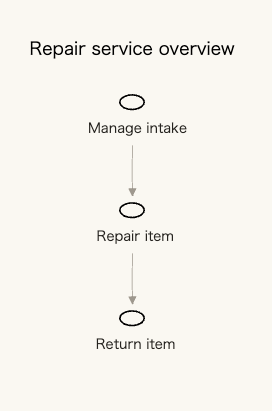
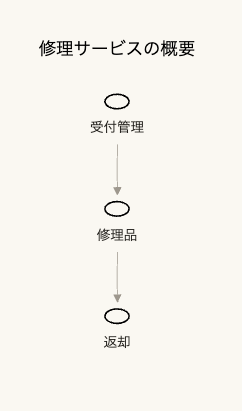
fix: localize diagram labels and label backgrounds

diff --git a/.agents/skills/mermaid-diagram-authoring/scripts/check_business_flow.py b/.agents/skills/mermaid-diagram-authoring/scripts/check_business_flow.py
@@ -29,8 +29,10 @@ CLASS_DEF_RE = re.compile(
 )
 
 CANONICAL_THEME_CSS = (
-    'themeCSS: ".image-shape p { padding: 0 !important; } '
+    'themeCSS: ".image-shape p { padding: 0 !important; background-color:#FAF8F2 !important; } '
     '.image-shape foreignObject { overflow: visible; } '
+    '.image-shape .labelBkg { background-color:#FAF8F2 !important; } '
+    '.image-shape .label rect { fill:#FAF8F2 !important; opacity:1 !important; } '
     ".image-shape[id*='-flowchart-b_'] .label p { transform: translateY(-6px); }\""
 )
 CANONICAL_LINK_STYLE = (

diff --git a/.agents/skills/mermaid-diagram-authoring/scripts/check_context_diagram.py b/.agents/skills/mermaid-diagram-authoring/scripts/check_context_diagram.py
@@ -36,8 +36,10 @@ CLASS_DEF_RE = re.compile(
 )
 
 CANONICAL_THEME_CSS = (
-    'themeCSS: ".image-shape p { padding: 0 !important; } '
+    'themeCSS: ".image-shape p { padding: 0 !important; background-color:#FAF8F2 !important; } '
     '.image-shape foreignObject { overflow: visible; } '
+    '.image-shape .labelBkg { background-color:#FAF8F2 !important; } '
+    '.image-shape .label rect { fill:#FAF8F2 !important; opacity:1 !important; } '
     ".image-shape[id*='-flowchart-b_'] .label p { transform: translateY(-6px); }\""
 )
 CANONICAL_LINK_STYLE = (

diff --git a/examples/repair-intake/context.md b/examples/repair-intake/context.md
@@ -4,7 +4,7 @@ Working view of the actors, information, and outside service around repair intak
 
 ```mermaid
 ---
-title: Repair intake context
+title: 修理受付のコンテキスト
 config:
   layout: dagre
   theme: neutral
@@ -20,14 +20,14 @@ config:
     lineColor: "#8A847A"
     fontFamily: "Inter, Hiragino Sans, sans-serif"
     fontSize: "14px"
-  themeCSS: ".image-shape p { padding: 0 !important; } .image-shape foreignObject { overflow: visible; } .image-shape[id*='-flowchart-b_'] .label p { transform: translateY(-6px); }"
+  themeCSS: ".image-shape p { padding: 0 !important; background-color:#FAF8F2 !important; } .image-shape foreignObject { overflow: visible; } .image-shape .labelBkg { background-color:#FAF8F2 !important; } .image-shape .label rect { fill:#FAF8F2 !important; opacity:1 !important; } .image-shape[id*='-flowchart-b_'] .label p { transform: translateY(-6px); }"
 ---
 flowchart TB
-  a_customer@{ img: "https://raw.githubusercontent.com/maakbo/fde/main/assets/icons/lucide-thin/user.svg", label: "Customer", pos: "b", w: 38, h: 38, constraint: "on" }
-  b_receive_request@{ img: "https://raw.githubusercontent.com/maakbo/fde/main/assets/icons/lucide-thin/ellipse.svg", label: "Receive request", pos: "b", w: 30, h: 30, constraint: "on" }
-  i_repair_request@{ img: "https://raw.githubusercontent.com/maakbo/fde/main/assets/icons/lucide-thin/file.svg", label: "Repair request", pos: "b", w: 38, h: 38, constraint: "on" }
-  i_intake_record@{ img: "https://raw.githubusercontent.com/maakbo/fde/main/assets/icons/lucide-thin/file.svg", label: "Intake record", pos: "b", w: 38, h: 38, constraint: "on" }
-  x_scheduling_service@{ img: "https://raw.githubusercontent.com/maakbo/fde/main/assets/icons/lucide-thin/server.svg", label: "Scheduling", pos: "b", w: 38, h: 38, constraint: "on" }
+  a_customer@{ img: "https://raw.githubusercontent.com/maakbo/fde/main/assets/icons/lucide-thin/user.svg", label: "顧客", pos: "b", w: 38, h: 38, constraint: "on" }
+  b_receive_request@{ img: "https://raw.githubusercontent.com/maakbo/fde/main/assets/icons/lucide-thin/ellipse.svg", label: "依頼受付", pos: "b", w: 30, h: 30, constraint: "on" }
+  i_repair_request@{ img: "https://raw.githubusercontent.com/maakbo/fde/main/assets/icons/lucide-thin/file.svg", label: "修理依頼", pos: "b", w: 38, h: 38, constraint: "on" }
+  i_intake_record@{ img: "https://raw.githubusercontent.com/maakbo/fde/main/assets/icons/lucide-thin/file.svg", label: "受付記録", pos: "b", w: 38, h: 38, constraint: "on" }
+  x_scheduling_service@{ img: "https://raw.githubusercontent.com/maakbo/fde/main/assets/icons/lucide-thin/server.svg", label: "予約管理", pos: "b", w: 38, h: 38, constraint: "on" }
 
   a_customer --- b_receive_request
   i_repair_request --- b_receive_request
@@ -46,10 +46,10 @@ flowchart TB
   linkStyle default stroke:#9E988E,stroke-width:0.75px;
 ```
 
-## Reading
+## 読み方
 
-The customer, repair request, intake record, and scheduling service relate through receiving the repair request. The lines show business relationships, not time order.
+顧客、修理依頼、受付記録、予約管理が、依頼受付を中心につながっている。線は業務上の関係を示し、時間の順序は示さない。
 
-## Open question
+## 未解決の問い
 
-Does booking still belong inside the intake boundary?
+予約は、引き続き受付の境界内に置くか？

diff --git a/examples/repair-intake/flow.md b/examples/repair-intake/flow.md
@@ -4,7 +4,7 @@ Focused task flow for completeness checking and missing-detail rework.
 
 ```mermaid
 ---
-title: Repair intake flow
+title: 修理受付の業務フロー
 config:
   layout: dagre
   theme: neutral
@@ -22,17 +22,17 @@ config:
     edgeLabelBackground: "#FAF8F2"
     fontFamily: "Inter, Hiragino Sans, sans-serif"
     fontSize: "14px"
-  themeCSS: ".image-shape p { padding: 0 !important; } .image-shape foreignObject { overflow: visible; } .image-shape[id*='-flowchart-b_'] .label p { transform: translateY(-6px); }"
+  themeCSS: ".image-shape p { padding: 0 !important; background-color:#FAF8F2 !important; } .image-shape foreignObject { overflow: visible; } .image-shape .labelBkg { background-color:#FAF8F2 !important; } .image-shape .label rect { fill:#FAF8F2 !important; opacity:1 !important; } .image-shape[id*='-flowchart-b_'] .label p { transform: translateY(-6px); }"
 ---
 flowchart TB
-  b_receive_request@{ img: "https://raw.githubusercontent.com/maakbo/fde/main/assets/icons/lucide-thin/ellipse.svg", label: "Receive request", pos: "b", w: 30, h: 30, constraint: "on" }
-  d_information_complete@{ img: "https://raw.githubusercontent.com/maakbo/fde/main/assets/icons/lucide-thin/diamond.svg", label: "Complete?", pos: "b", w: 38, h: 38, constraint: "on" }
-  b_request_details@{ img: "https://raw.githubusercontent.com/maakbo/fde/main/assets/icons/lucide-thin/ellipse.svg", label: "Request details", pos: "b", w: 30, h: 30, constraint: "on" }
-  b_book_repair@{ img: "https://raw.githubusercontent.com/maakbo/fde/main/assets/icons/lucide-thin/ellipse.svg", label: "Book repair", pos: "b", w: 30, h: 30, constraint: "on" }
+  b_receive_request@{ img: "https://raw.githubusercontent.com/maakbo/fde/main/assets/icons/lucide-thin/ellipse.svg", label: "依頼受付", pos: "b", w: 30, h: 30, constraint: "on" }
+  d_information_complete@{ img: "https://raw.githubusercontent.com/maakbo/fde/main/assets/icons/lucide-thin/diamond.svg", label: "情報は揃った？", pos: "b", w: 38, h: 38, constraint: "on" }
+  b_request_details@{ img: "https://raw.githubusercontent.com/maakbo/fde/main/assets/icons/lucide-thin/ellipse.svg", label: "不足情報を確認", pos: "b", w: 30, h: 30, constraint: "on" }
+  b_book_repair@{ img: "https://raw.githubusercontent.com/maakbo/fde/main/assets/icons/lucide-thin/ellipse.svg", label: "修理予約", pos: "b", w: 30, h: 30, constraint: "on" }
 
   b_receive_request --> d_information_complete
-  d_information_complete -->|Complete| b_book_repair
-  d_information_complete -->|Missing| b_request_details
+  d_information_complete -->|揃っている| b_book_repair
+  d_information_complete -->|不足あり| b_request_details
   b_request_details --> d_information_complete
 
   class b_receive_request,b_request_details,b_book_repair activity;
@@ -43,10 +43,10 @@ flowchart TB
   linkStyle default stroke:#9E988E,stroke-width:0.75px,fill:none;
 ```
 
-## Reading
+## 読み方
 
-Receive the request, check completeness, request missing details and recheck when necessary, then book the repair.
+依頼を受け、情報が揃っているかを確認する。不足があれば確認し、揃ったら修理を予約する。
 
-## Open question
+## 未解決の問い
 
-Is completeness checking part of receiving, or a separate responsibility?
+情報の確認は受付の一部か、それとも別の担当か？

diff --git a/templates/icon-context.md b/templates/icon-context.md
@@ -4,7 +4,7 @@ Edit the Mermaid block directly and preview this Markdown file. Keep assumptions
 
 ```mermaid
 ---
-title: Business context
+title: 業務コンテキスト
 config:
   layout: dagre
   theme: neutral
@@ -20,14 +20,14 @@ config:
     lineColor: "#8A847A"
     fontFamily: "Inter, Hiragino Sans, sans-serif"
     fontSize: "14px"
-  themeCSS: ".image-shape p { padding: 0 !important; } .image-shape foreignObject { overflow: visible; } .image-shape[id*='-flowchart-b_'] .label p { transform: translateY(-6px); }"
+  themeCSS: ".image-shape p { padding: 0 !important; background-color:#FAF8F2 !important; } .image-shape foreignObject { overflow: visible; } .image-shape .labelBkg { background-color:#FAF8F2 !important; } .image-shape .label rect { fill:#FAF8F2 !important; opacity:1 !important; } .image-shape[id*='-flowchart-b_'] .label p { transform: translateY(-6px); }"
 ---
 flowchart TB
-  a_requester@{ img: "https://raw.githubusercontent.com/maakbo/fde/main/assets/icons/lucide-thin/user.svg", label: "Requester", pos: "b", w: 38, h: 38, constraint: "on" }
-  b_receive@{ img: "https://raw.githubusercontent.com/maakbo/fde/main/assets/icons/lucide-thin/ellipse.svg", label: "Receive request", pos: "b", w: 30, h: 30, constraint: "on" }
-  i_request@{ img: "https://raw.githubusercontent.com/maakbo/fde/main/assets/icons/lucide-thin/file.svg", label: "Request", pos: "b", w: 38, h: 38, constraint: "on" }
-  i_record@{ img: "https://raw.githubusercontent.com/maakbo/fde/main/assets/icons/lucide-thin/file.svg", label: "Intake record", pos: "b", w: 38, h: 38, constraint: "on" }
-  x_service@{ img: "https://raw.githubusercontent.com/maakbo/fde/main/assets/icons/lucide-thin/server.svg", label: "External service", pos: "b", w: 38, h: 38, constraint: "on" }
+  a_requester@{ img: "https://raw.githubusercontent.com/maakbo/fde/main/assets/icons/lucide-thin/user.svg", label: "依頼者", pos: "b", w: 38, h: 38, constraint: "on" }
+  b_receive@{ img: "https://raw.githubusercontent.com/maakbo/fde/main/assets/icons/lucide-thin/ellipse.svg", label: "依頼受付", pos: "b", w: 30, h: 30, constraint: "on" }
+  i_request@{ img: "https://raw.githubusercontent.com/maakbo/fde/main/assets/icons/lucide-thin/file.svg", label: "依頼内容", pos: "b", w: 38, h: 38, constraint: "on" }
+  i_record@{ img: "https://raw.githubusercontent.com/maakbo/fde/main/assets/icons/lucide-thin/file.svg", label: "受付記録", pos: "b", w: 38, h: 38, constraint: "on" }
+  x_service@{ img: "https://raw.githubusercontent.com/maakbo/fde/main/assets/icons/lucide-thin/server.svg", label: "外部サービス", pos: "b", w: 38, h: 38, constraint: "on" }
 
   a_requester --- b_receive
   i_request --- b_receive
@@ -46,6 +46,6 @@ flowchart TB
   linkStyle default stroke:#9E988E,stroke-width:0.75px;
 ```
 
-## Open question
+## 未解決の問い
 
-What boundary, grain, classification, or relationship should the group examine next?
+次に、どの境界・粒度・分類・関係性を検討するか？

diff --git a/templates/business-flow.md b/templates/business-flow.md
@@ -4,7 +4,7 @@ Edit the Mermaid block directly and preview this Markdown file. Record unresolve
 
 ```mermaid
 ---
-title: Business flow
+title: 業務フロー
 config:
   layout: dagre
   theme: neutral
@@ -22,18 +22,18 @@ config:
     edgeLabelBackground: "#FAF8F2"
     fontFamily: "Inter, Hiragino Sans, sans-serif"
     fontSize: "14px"
-  themeCSS: ".image-shape p { padding: 0 !important; } .image-shape foreignObject { overflow: visible; } .image-shape[id*='-flowchart-b_'] .label p { transform: translateY(-6px); }"
+  themeCSS: ".image-shape p { padding: 0 !important; background-color:#FAF8F2 !important; } .image-shape foreignObject { overflow: visible; } .image-shape .labelBkg { background-color:#FAF8F2 !important; } .image-shape .label rect { fill:#FAF8F2 !important; opacity:1 !important; } .image-shape[id*='-flowchart-b_'] .label p { transform: translateY(-6px); }"
 ---
 flowchart TB
-  b_receive@{ img: "https://raw.githubusercontent.com/maakbo/fde/main/assets/icons/lucide-thin/ellipse.svg", label: "Receive", pos: "b", w: 30, h: 30, constraint: "on" }
-  d_complete@{ img: "https://raw.githubusercontent.com/maakbo/fde/main/assets/icons/lucide-thin/diamond.svg", label: "Complete?", pos: "b", w: 38, h: 38, constraint: "on" }
-  b_create@{ img: "https://raw.githubusercontent.com/maakbo/fde/main/assets/icons/lucide-thin/ellipse.svg", label: "Create", pos: "b", w: 30, h: 30, constraint: "on" }
-  b_review@{ img: "https://raw.githubusercontent.com/maakbo/fde/main/assets/icons/lucide-thin/ellipse.svg", label: "Review", pos: "b", w: 30, h: 30, constraint: "on" }
+  b_receive@{ img: "https://raw.githubusercontent.com/maakbo/fde/main/assets/icons/lucide-thin/ellipse.svg", label: "受付", pos: "b", w: 30, h: 30, constraint: "on" }
+  d_complete@{ img: "https://raw.githubusercontent.com/maakbo/fde/main/assets/icons/lucide-thin/diamond.svg", label: "情報は揃った？", pos: "b", w: 38, h: 38, constraint: "on" }
+  b_create@{ img: "https://raw.githubusercontent.com/maakbo/fde/main/assets/icons/lucide-thin/ellipse.svg", label: "作成", pos: "b", w: 30, h: 30, constraint: "on" }
+  b_review@{ img: "https://raw.githubusercontent.com/maakbo/fde/main/assets/icons/lucide-thin/ellipse.svg", label: "確認", pos: "b", w: 30, h: 30, constraint: "on" }
 
   b_receive --> d_complete
-  d_complete -->|Yes| b_create
+  d_complete -->|揃っている| b_create
   b_create --> b_review
-  d_complete -->|No| b_receive
+  d_complete -->|不足あり| b_receive
 
   class b_receive,b_create,b_review activity;
   class d_complete decision;
@@ -43,6 +43,6 @@ flowchart TB
   linkStyle default stroke:#9E988E,stroke-width:0.75px,fill:none;
 ```
 
-## Open question
+## 未解決の問い
 
-Which activity, decision, or return route could change the shared understanding?
+どの業務・判断・戻り道が、共有認識を変えそうか？

diff --git a/examples/repair-intake/overview.md b/examples/repair-intake/overview.md
@@ -4,7 +4,7 @@ One-level-higher view connecting intake, repair, and return.
 
 ```mermaid
 ---
-title: Repair service overview
+title: 修理サービスの概要
 config:
   layout: dagre
   theme: neutral
@@ -22,12 +22,12 @@ config:
     edgeLabelBackground: "#FAF8F2"
     fontFamily: "Inter, Hiragino Sans, sans-serif"
     fontSize: "14px"
-  themeCSS: ".image-shape p { padding: 0 !important; } .image-shape foreignObject { overflow: visible; } .image-shape[id*='-flowchart-b_'] .label p { transform: translateY(-6px); }"
+  themeCSS: ".image-shape p { padding: 0 !important; background-color:#FAF8F2 !important; } .image-shape foreignObject { overflow: visible; } .image-shape .labelBkg { background-color:#FAF8F2 !important; } .image-shape .label rect { fill:#FAF8F2 !important; opacity:1 !important; } .image-shape[id*='-flowchart-b_'] .label p { transform: translateY(-6px); }"
 ---
 flowchart TB
-  b_manage_intake@{ img: "https://raw.githubusercontent.com/maakbo/fde/main/assets/icons/lucide-thin/ellipse.svg", label: "Manage intake", pos: "b", w: 30, h: 30, constraint: "on" }
-  b_repair_item@{ img: "https://raw.githubusercontent.com/maakbo/fde/main/assets/icons/lucide-thin/ellipse.svg", label: "Repair item", pos: "b", w: 30, h: 30, constraint: "on" }
-  b_return_item@{ img: "https://raw.githubusercontent.com/maakbo/fde/main/assets/icons/lucide-thin/ellipse.svg", label: "Return item", pos: "b", w: 30, h: 30, constraint: "on" }
+  b_manage_intake@{ img: "https://raw.githubusercontent.com/maakbo/fde/main/assets/icons/lucide-thin/ellipse.svg", label: "受付管理", pos: "b", w: 30, h: 30, constraint: "on" }
+  b_repair_item@{ img: "https://raw.githubusercontent.com/maakbo/fde/main/assets/icons/lucide-thin/ellipse.svg", label: "修理品", pos: "b", w: 30, h: 30, constraint: "on" }
+  b_return_item@{ img: "https://raw.githubusercontent.com/maakbo/fde/main/assets/icons/lucide-thin/ellipse.svg", label: "返却", pos: "b", w: 30, h: 30, constraint: "on" }
 
   b_manage_intake --> b_repair_item
   b_repair_item --> b_return_item
@@ -38,6 +38,6 @@ flowchart TB
   linkStyle default stroke:#9E988E,stroke-width:0.75px,fill:none;
 ```
 
-## Reading
+## 読み方
 
-Repair service moves from intake to repair and then return. Each activity may expand into a focused Markdown view.
+修理サービスは受付から修理、返却へ進む。それぞれの業務は、詳細なMarkdown図へ展開できる。

diff --git a/.agents/skills/mermaid-diagram-authoring/references/icon-context.md b/.agents/skills/mermaid-diagram-authoring/references/icon-context.md
@@ -5,7 +5,7 @@
 The icon is the visual object. Its size does not depend on its label.
 
 ```mermaid
-a_customer@{ img: "https://raw.githubusercontent.com/maakbo/fde/main/assets/icons/lucide-thin/user.svg", label: "Customer", pos: "b", w: 38, h: 38, constraint: "on" }
+a_customer@{ img: "https://raw.githubusercontent.com/maakbo/fde/main/assets/icons/lucide-thin/user.svg", label: "依頼者", pos: "b", w: 38, h: 38, constraint: "on" }
 ```
 
 ## Scope and direction

diff --git a/.agents/skills/mermaid-diagram-authoring/references/business-flow.md b/.agents/skills/mermaid-diagram-authoring/references/business-flow.md
@@ -41,8 +41,8 @@ Use solid arrows:
 
 ```mermaid
 b_receive --> d_complete
-d_complete -->|Complete| b_book
-d_complete -->|Missing| b_request_details
+d_complete -->|揃っている| b_book
+d_complete -->|不足あり| b_request_details
 ```
 
 Only a decision may have labeled outgoing arrows. Give it exactly two distinct labels. Keep every node reachable from the first activity and able to reach the single last activity.
